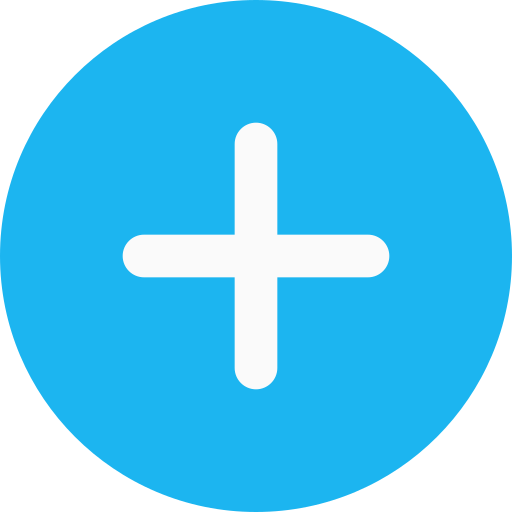
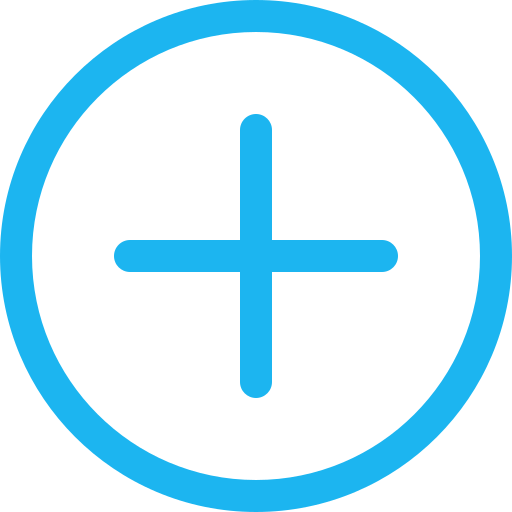
update25.06

diff --git a/style/main.css b/style/main.css
@@ -1,6 +1,8 @@
 * {
   /* temp */
   /* border: 1px solid black; */
+
+  font-family: Arial, Helvetica, sans-serif;
 }
 
 /* /// input area /// */
@@ -10,9 +12,9 @@
   /* display: flex; */
   position: absolute;
   z-index: 2;
-  width: 60%;
-  height: 40%;
-  background-color: #f8f8f8;
+  width: 40%;
+  height: 30%;
+  background-color: #f2f2f2;
 
   box-shadow: 2px 2px 1.3px rgba(0, 0, 0, 0.027),
     4.5px 4.6px 3px rgba(0, 0, 0, 0.04), 7.9px 8px 5.3px rgba(0, 0, 0, 0.048),
@@ -23,19 +25,35 @@
 
   border-radius: 15px;
 
-  left: 20%;
-  top: 20%;
+  left: 30%;
+  top: 30%;
 
   justify-content: center;
   align-items: center;
   flex-direction: column;
 }
 
+.inputArea > label {
+  font-size: 1.5em;
+  color: rgb(119, 119, 119);
+}
+
+.inputArea > input {
+  height: 20%;
+  width: 40%;
+  box-sizing: border-box;
+  border: 2px solid #ccc;
+  border-radius: 4px;
+  background-color: #f8f8f8;
+  font-size: 16px;
+  resize: none;
+}
+
 .inputArea > img {
   position: relative;
   width: 7vh;
   height: 7vh;
-  top: 45%;
+  top: 10%;
   left: 0;
   cursor: pointer;
 }
@@ -147,11 +165,27 @@ body {
 
 .listToDo {
   /* background-color: #f8f8f8; */
-  padding-left: 5%;
-  width: 100%;
+  position: relative;
+  width: 80%;
+  list-style: none;
   /* overflow-y: scroll; */
 }
 
-.list_item {
+.list_task {
   /* text-decoration: line-through; */
+  background-color: red;
+  margin-bottom: 2%;
+  padding: 2%;
+  border-radius: 10px;
+  align-self: center;
+
+  /* display: flex; */
+  /* width: 100%; */
+}
+
+.task_delete {
+  /* position: absolute; */
+  width: 10%;
+}
+.task_confirm {
 }

diff --git a/script/submit.js b/script/submit.js
@@ -1,5 +1,29 @@
 let button = document.querySelector(".inputArea>img");
+let counter = 0;
 
 button.addEventListener("click", function () {
-  document.querySelector(".inputArea").style.display = "none";
+  let task = document.querySelector("#txtinp").value;
+
+  if (task.length > 1) {
+    const taskElement = document.createElement("li");
+    taskElement.classList.add("list_task");
+    taskElement.value = counter;
+    taskElement.innerText = task;
+
+    const parent = document.querySelector(".listToDo");
+    parent.appendChild(taskElement);
+
+    const deleteMark = document.createElement("img");
+    deleteMark.classList.add("task_delete");
+    deleteMark.src = "img/list/cross-mark-black.png";
+    taskElement.appendChild(deleteMark);
+
+    const confirmMark = document.createElement("img");
+    confirmMark.classList.add("task_confirm");
+
+    ++counter;
+    document.querySelector(".inputArea").style.display = "none";
+  } else {
+    alert("Nazwa zadania musi być dłuższa niż 1 znak");
+  }
 });

diff --git a/index.html b/index.html
@@ -14,7 +14,7 @@
       <div class="inputArea">
         <label class="labelTxtinp" for="txtinp">Podaj zadanie: </label>
         <input id="txtinp" type="text" />
-        <img src="img/add/plus.png" alt="przycik dodania elementu" />
+        <img src="img/add/right.png" alt="przycik dodania elementu" />
       </div>
     </div>
 
@@ -23,14 +23,14 @@
         <section id="mainbox_icons_iconbox">
           <img
             class="topIcons"
-            src="img/list/listActive_lightmode.png"
+            src="img/top icons/list/listActive_lightmode.png"
             alt="List icon active"
           />
         </section>
         <section id="mainbox_icons_completedbox">
           <img
             class="topIcons"
-            src="img/done/doneNotactive_lightmode.png"
+            src="img/top icons/done/doneNotactive_lightmode.png"
             alt="Done icon not active"
           />
         </section>
